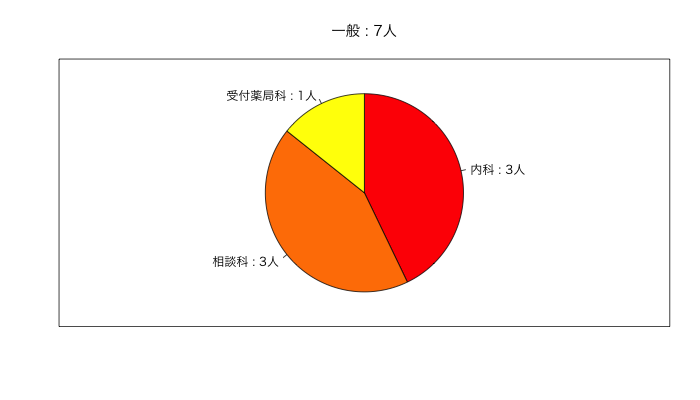
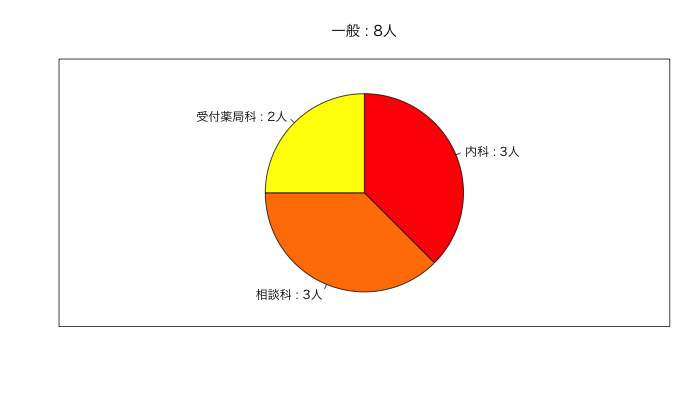
昇格者更新

diff --git a/ReadMe.md b/ReadMe.md
@@ -13,7 +13,7 @@
 
 ## 会員構成
 
-2017年05月21日(日)時点での主任以上の会員
+2017年05月28日(日)時点での主任以上の会員
 
 ### 一覧
 
@@ -26,15 +26,15 @@
 |医院長|相談科|あめ||
 |副医院長|受付薬局科|Sherry||
 |副医院長|受付薬局科|にこ||
-|副医院長補佐|ナース科|さきりん|<img src="https://github.com/fairy00000/organization/blob/master/image/new.gif">|
+|副医院長補佐|ナース科|さきりん||
 |部長|内科|Fx||
 |部長|内科|くぅ||
 |部長|内科|まあ||
 |部長|内科|みなみん||
 |部長|外科|ノッチィ||
 |部長|相談科|れい||
-|部長|産婦人科|宇佐||
 |部長|受付薬局科|かのん||
+|部長|受付薬局科|宇佐||
 |部長|受付薬局科|渚||
 |主任|内科|SEANO||
 |主任|内科|にゃんこ||
@@ -42,6 +42,7 @@
 |主任|相談科|saaya||
 |主任|相談科|かお||
 |主任|相談科|みさき||
+|主任|受付薬局科|nami|<img src="https://github.com/fairy00000/organization/blob/master/image/new.gif">|
 |主任|受付薬局科|りな||
 
 ### 人数
@@ -54,9 +55,9 @@
 |副医院長補佐|0|0|0|0|0|0|1|0|1|
 |医局長|0|0|0|0|0|0|0|0|0|
 |事務局長|0|0|0|0|0|0|0|0|0|
-|部長|0|4|1|0|1|1|0|2|9|
-|主任|0|3|0|0|3|0|0|1|7|
-|合計|1|7|2|2|5|1|1|5|24|
+|部長|0|4|1|0|1|0|0|3|9|
+|主任|0|3|0|0|3|0|0|2|8|
+|合計|1|7|2|2|5|0|1|7|25|
 
 <img src="https://github.com/fairy00000/organization/blob/master/image/Member.png">
 
